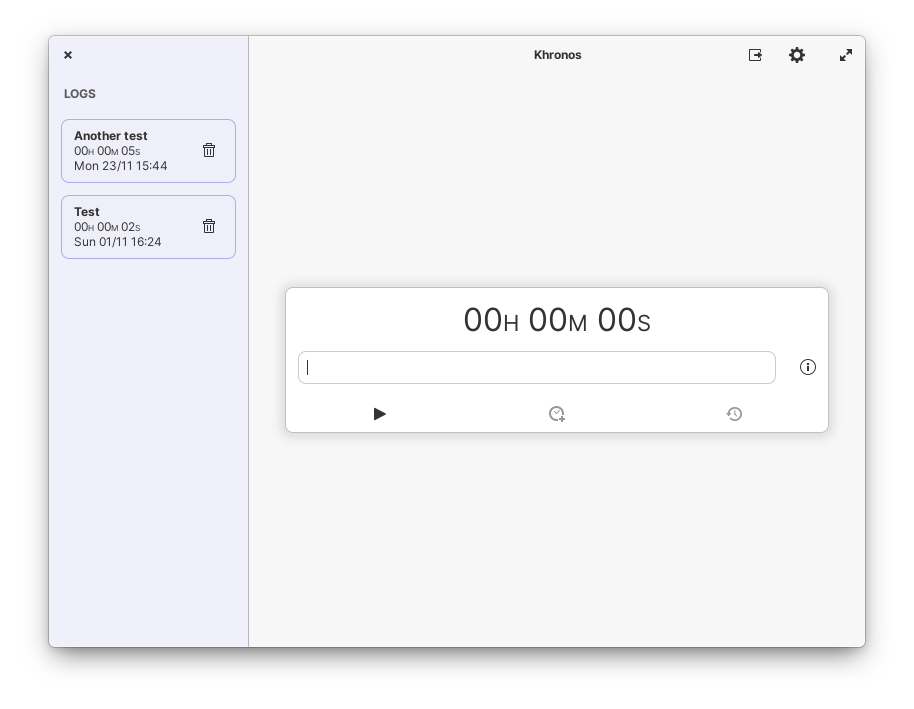
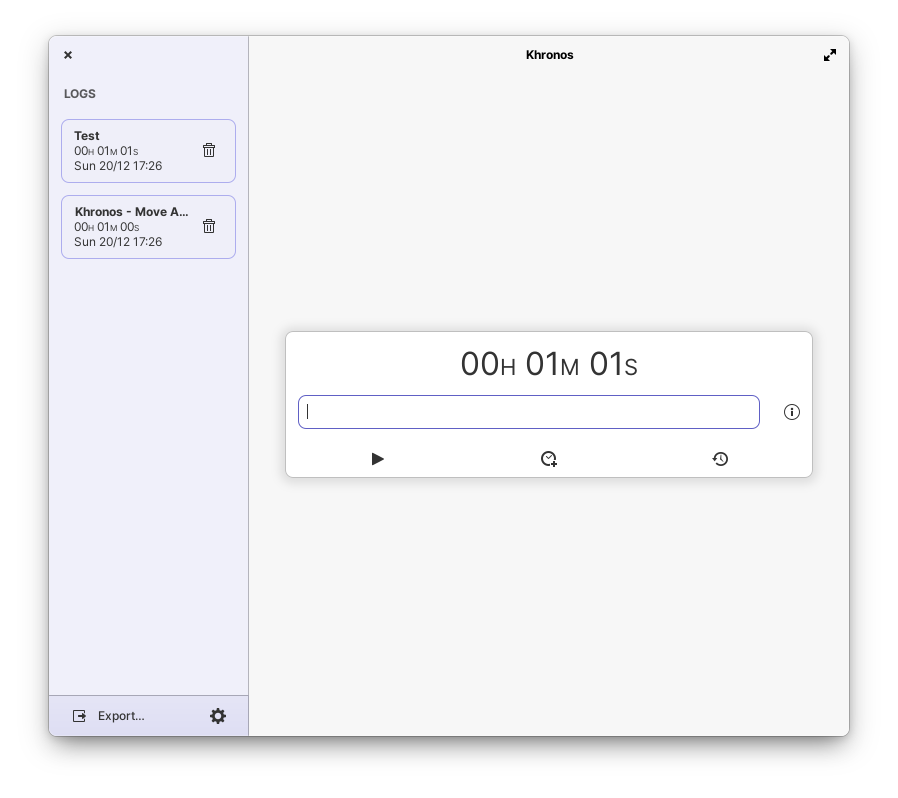
*

diff --git a/data/stylesheet.css b/data/stylesheet.css
@@ -143,3 +143,24 @@ window.unified decoration-overlay {
 .tt-toolbar-dark:backdrop .titlebutton {
     color: #CCC;
 }
+
+.tt-sabar {
+  background-color: shade(mix (@accent_color, @base_color, 0.90), 0.95);
+  border-top: 1px solid alpha(black, 0.25);
+  border-right: 1px solid alpha(black, 0.25);
+  padding: 6px 10px;
+  box-shadow: none;
+}
+
+.tt-sabar .image-button,
+.tt-sabutton {
+  border-radius: 8px;
+  padding: 6px;
+}
+
+.tt-sabar .image-button:focus,
+.tt-sabar .image-button:hover,
+.tt-sabutton:focus,
+.tt-sabutton:hover {
+  background: shade(mix (@accent_color, @base_color, 0.90), 0.88);
+}
